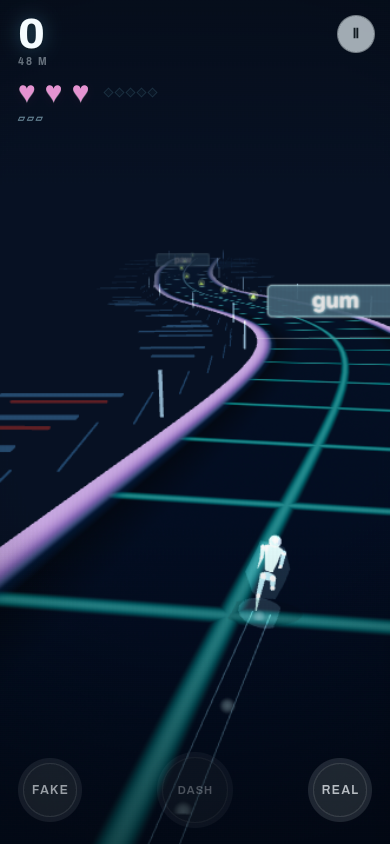
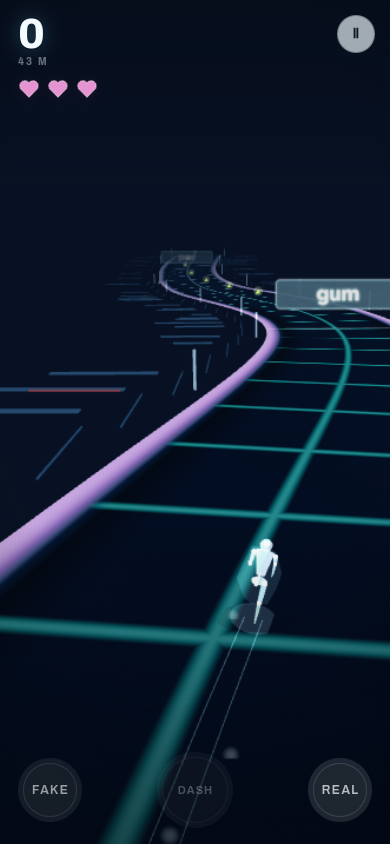
RC6.2: the HUD as one instrument — drawn hearts that carry the streak
The top-left was three things grown up beside each other: the score, a
row of hearts set in whatever heart glyph the platform's symbol font
drew, a second row of five diamonds counting the clean streak, and the
reward-bar marks.

- The hearts are drawn: one path, stroked and filled at a fixed 22px, so
  the piece of HUD that says whether you are alive looks the same on
  every device. The rose is unchanged and still clears every reserved hue
  by at least 25 degrees; the gate proving it now reads the shape's fill
  instead of a glyph's text colour, which is where the colour lives.
- The streak is drawn inside the heart it wins. The five-pip widget is
  deleted, not hidden: the next empty heart fills from its base as the
  clean run climbs, clipped to the heart's outline, reading the same
  repair ladder the sim repairs from. A full row shows nothing extra. The
  screen-reader line moved onto the hearts - the widget went, the
  information did not.
- The bar marks sit with the DASH meter, the other thing the player sets,
  and are invisible until a bar is set. They survive where the charge bar
  is hidden, because they are not the charge.

The four gates protecting the retired widget were retired with it rather
than repointed at a rewritten target; five checks on the hearts hold what
they held. RC stills re-shot.

Gates: full chain green; gate:v1 explicit (26/206/14, 0 fail); 8 live
browser checks.

Claude-Session: https://claude.ai/code/session_01TDfwjntrxgtKLG2HhWQzYQ

diff --git a/index.html b/index.html
@@ -57,13 +57,23 @@
   /* Hearts — the fail state, one pip per life. Built and driven by ui.js
      (Phase 0: relocated here from the deleted rc5.js style injection). The
      danger colour is overridden per colour-vision palette in ui/access.js. */
-  #vitals{display:flex;align-items:center;gap:9px;pointer-events:none;transition:opacity .18s ease}
+  #vitals{display:flex;align-items:center;gap:7px;pointer-events:none;transition:opacity .18s ease}
   /* Phase L HUD pass: hearts leave saturated red — that hue is the
      Redline's alarm, and two reds on one screen taught the wrong lesson.
      Soft rose (hue 315°) clears every RESERVED_HUES entry by ≥ 35° and
      still reads as vitality by shape; the gate holds the separation. */
-  .heartPip{font:600 30px/1 var(--face);color:#ec98d7;text-shadow:0 1px 0 rgba(255,255,255,.35),0 2px 8px rgba(70,20,60,.22);opacity:.97;transition:opacity .18s ease,transform .18s ease}
-  .heartPip.empty{opacity:.14;transform:scale(.82)}
+  /* RC6.2: drawn, not typeset. Stroke + fill at a fixed 22px, so the shape
+     is identical on every platform instead of whatever '♥' each symbol font
+     happens to draw. The rose (hue ~322) clears every RESERVED_HUES entry —
+     the gate holds that separation, as it did for the glyph. */
+  .heartPip{width:22px;height:22px;overflow:visible;opacity:.97;transition:opacity .18s ease,transform .18s ease}
+  .heartPip .hFill{fill:#ec98d7;filter:drop-shadow(0 2px 6px rgba(70,20,60,.35))}
+  .heartPip .hLine{fill:none;stroke:#ffd9f1;stroke-width:1.4;opacity:.5}
+  /* The clean streak, filling the next empty heart from its base. */
+  .heartPip .hStreak{fill:#ec98d7;opacity:.42}
+  .heartPip.empty .hFill{fill:rgba(236,152,215,.13)}
+  .heartPip.empty .hLine{stroke:rgba(255,217,241,.34);opacity:1}
+  .heartPip.empty{transform:scale(.9)}
   #vitals.pulse .heartPip:not(.empty){animation:heartPulse .38s ease}
   @keyframes heartPulse{0%{transform:scale(1)}35%{transform:scale(1.26)}100%{transform:scale(1)}}
   /* RC-5: the run HUD does not carry a second score. BEST lives in
@@ -85,8 +95,12 @@
   #meterLabel i{flex:1;height:1px;background:currentColor;opacity:.3;font-style:normal}
   /* The bar the player set for themselves. Marks, never a word — the naming
      cap is four and this is not one of them. */
-  #barLevel{font-weight:700;letter-spacing:.22em;color:rgba(190,238,255,.55);font-size:9px}
-  #barLevel.set{color:#8be4ff}
+  /* RC6.2: the player's own bar sits with the DASH meter — the two things
+     the player SETS, together — and is invisible until it is actually set.
+     An unset row of marks was three characters of noise beside the hearts
+     explaining nothing. Marks, never a word: the naming cap is four. */
+  #barLevel{font-weight:700;letter-spacing:.22em;color:#8be4ff;font-size:9px;opacity:0;transition:opacity .18s ease}
+  #barLevel.set{opacity:1}
   .meter-zone.armed #meterLabel{color:rgba(190,238,255,.85)}
   .meter-zone.spending #meterLabel{color:#fff}
   /* The one-shot flourish when the dash reaches full charge. */
@@ -313,7 +327,15 @@
      button overlapping the bar. The bar is hidden wherever the ring exists;
      a mouse/keyboard player has no ring, so there it stays exactly as it was.
      The reward-bar readout moves out of the meter's label so it survives. */
-  @media (pointer:coarse){.meter-zone{display:none}}
+  /* RC5: the charge bar is hidden wherever the DASH button's ring is the
+     tell. RC6.2: the bar MARKS are not the charge, so they stay — the row
+     keeps its place above the button and holds nothing but them, which is
+     nothing at all until the player sets a bar. */
+  @media (pointer:coarse){
+    #meterWrap,#meterLabel .mLabel,#meterLabel i{display:none}
+    .meter-zone{gap:0;min-height:14px}
+    #meterLabel{justify-content:center}
+  }
   #barLevel{align-self:flex-end}
   @media(min-width:760px) and (orientation:landscape){#hud{padding-left:28px;padding-right:28px}#meterWrap{max-width:560px;margin:0 auto}.title-lockup{margin-top:8vh}}
 </style>
@@ -326,8 +348,8 @@
   <div id="bandName"></div><div id="coach"></div><div id="powerHint"></div>
 
   <div id="hud">
-    <div><div class="row"><div><div id="dist">0</div><div id="distSub">0 M</div><div id="vitalsSlot"></div></div><div id="best" hidden><span>BEST TODAY</span><b id="bestVal">—</b></div></div><div id="chain"></div><b id="barLevel"></b></div>
-    <div class="meter-zone"><div id="meterLabel">DASH<i></i></div><div id="meterWrap"><div id="meter"></div></div></div>
+    <div><div class="row"><div><div id="dist">0</div><div id="distSub">0 M</div><div id="vitalsSlot"></div></div><div id="best" hidden><span>BEST TODAY</span><b id="bestVal">—</b></div></div><div id="chain"></div></div>
+    <div class="meter-zone"><div id="meterLabel"><span class="mLabel">DASH</span><i></i><b id="barLevel"></b></div><div id="meterWrap"><div id="meter"></div></div></div>
   </div>
 
   <button id="mute" aria-label="Toggle sound">♪</button>

diff --git a/src/ui/ui.js b/src/ui/ui.js
@@ -14,6 +14,9 @@ import { COUNT_BEATS, FALLBACK_BPS, countValue } from './results-motion.js';
 
 const $ = (id) => document.getElementById(id);
 
+/** The heart, drawn once and shared by all three layers of every pip. */
+const HEART_PATH = 'M12 21.2 3.6 12.6a5.6 5.6 0 0 1 0-7.9 5.4 5.4 0 0 1 7.7 0l.7.7.7-.7a5.4 5.4 0 0 1 7.7 0 5.6 5.6 0 0 1 0 7.9Z';
+
 /** One labelled recap row: a short key, then the words it describes. */
 const row = (k, v) => `<div class="recapRow"><span class="k">${k}</span><span class="v">${v}</span></div>`;
 
@@ -77,11 +80,30 @@ export class UI {
     this.vitals = document.createElement('div');
     this.vitals.id = 'vitals';
     this.vitals.setAttribute('aria-label', 'Health');
+    // RC6.2: drawn hearts, not a font glyph. '♥' rendered at whatever weight
+    // and shape each platform's emoji or symbol font happened to have — a
+    // different silhouette on every device, for the piece of HUD that says
+    // whether you are alive. These are one path, stroked and filled by us.
+    //
+    // The fill is also the streak: the NEXT empty heart fills from the
+    // bottom as the clean run climbs toward the reads that win one back
+    // (HEARTS.STREAK_REPAIR_*). "Five in a row wins a heart" is drawn inside
+    // the heart it wins, so the run needs no second widget to say it, and a
+    // full row says nothing extra at all.
     this.heartPips = [];
     for (let i = 0; i < HEARTS.MAX; i++) {
-      const h = document.createElement('span');
-      h.className = 'heartPip';
-      h.textContent = '♥';
+      const h = document.createElementNS('http://www.w3.org/2000/svg', 'svg');
+      h.setAttribute('class', 'heartPip');
+      h.setAttribute('viewBox', '0 0 24 22');
+      h.setAttribute('aria-hidden', 'true');
+      // One clip per heart, so a partial fill is clipped to the heart's own
+      // shape rather than drawn as a rectangle over it.
+      const uid = `heartClip${i}`;
+      h.innerHTML =
+        `<defs><clipPath id="${uid}"><path d="${HEART_PATH}"/></clipPath></defs>` +
+        `<path class="hFill" d="${HEART_PATH}"/>` +
+        `<rect class="hStreak" x="0" y="22" width="24" height="22" clip-path="url(#${uid})"/>` +
+        `<path class="hLine" d="${HEART_PATH}"/>`;
       this.vitals.appendChild(h);
       this.heartPips.push(h);
     }
@@ -227,9 +249,23 @@ export class UI {
     } else this.coach.classList.remove('on');
   }
 
-  /** Paint the heart pips for a life count; `restored` pulses the survivors. */
-  setHearts(n, restored = false) {
-    this.heartPips.forEach((h, i) => h.classList.toggle('empty', i >= n));
+  /**
+   * Paint the heart pips for a life count; `restored` pulses the survivors.
+   * `streakFrac` (0..1) fills the NEXT empty heart — the clean run climbing
+   * toward the one that wins it back. Nothing fills when the row is full.
+   */
+  setHearts(n, restored = false, streakFrac = 0) {
+    this.heartPips.forEach((h, i) => {
+      h.classList.toggle('empty', i >= n);
+      // The next empty heart is the one being earned; the rest stay empty.
+      const filling = i === n ? Math.max(0, Math.min(1, streakFrac)) : 0;
+      const rect = h.querySelector('.hStreak');
+      // The rect grows upward from the heart's base, clipped to its outline.
+      if (rect) {
+        rect.setAttribute('y', (22 - filling * 22).toFixed(2));
+        rect.setAttribute('height', (filling * 22).toFixed(2));
+      }
+    });
     if (restored) {
       this.vitals.classList.remove('pulse');
       void this.vitals.offsetWidth;
@@ -243,8 +279,17 @@ export class UI {
     const live = sim.phase === 'running';
     this.vitals.style.opacity = live ? '1' : '0';
     const n = sim.hearts ?? HEARTS.MAX;
-    this.setHearts(n, live && n > this._lastHearts);
+    // The streak-to-heart ladder shortens as hearts are lost — the same
+    // table the sim repairs from, read here so the two can never disagree.
+    const full = n >= (sim.maxHearts ?? HEARTS.MAX);
+    const need = HEARTS.STREAK_REPAIR_BY_HEARTS[n] ?? HEARTS.STREAK_REPAIR_DEFAULT;
+    const streak = sim.wordGates?.streak || 0;
+    const frac = !live || full || need <= 0 ? 0 : (streak % need) / need;
+    this.setHearts(n, live && n > this._lastHearts, frac);
     this._lastHearts = n;
+    this.vitals.setAttribute('aria-label', full
+      ? `Hearts ${n} of ${sim.maxHearts ?? HEARTS.MAX}, full`
+      : `Hearts ${n}, clean streak ${streak % need} of ${need} to the next`);
   }
 
   update(dt, sim, running, clock = null) {

diff --git a/src/v1-ship-polish.js b/src/v1-ship-polish.js
@@ -199,64 +199,11 @@ function pollControllerUi() {
   controllerUi.navDown = down;
 }
 
-function ensureBellChargeHud() {
-  const sim = globalThis.__SIM;
-  const vitals = globalThis.__UI?.vitals;
-  if (!vitals || !sim) return;
-
-  let root = document.getElementById('v1BellCharge');
-  if (!root) {
-    const style = document.createElement('style');
-    style.id = 'v1-bell-charge-style';
-    style.textContent = `
-      #v1BellCharge{display:flex;align-items:center;gap:4px;margin-left:7px;height:30px;transform:translateY(1px)}
-      .v1-bell-pip{width:7px;height:7px;box-sizing:border-box;border:1px solid rgba(139,228,255,.55);background:rgba(103,216,255,.10);transform:rotate(45deg);transition:background .12s ease,box-shadow .12s ease,transform .12s ease}
-      .v1-bell-pip.on{background:#8be4ff;box-shadow:0 0 7px rgba(139,228,255,.6);transform:rotate(45deg) scale(1.08)}
-      #v1BellCharge.complete{animation:v1BellComplete .36s ease}
-      @keyframes v1BellComplete{0%{filter:brightness(1)}35%{filter:brightness(1.85)}100%{filter:brightness(1)}}
-      #v1BellCharge:focus{outline:none}
-    `;
-    document.head.appendChild(style);
-    root = document.createElement('div');
-    root.id = 'v1BellCharge';
-    root.setAttribute('role', 'img');
-    for (let i = 0; i < 5; i++) {
-      const pip = document.createElement('span');
-      pip.className = 'v1-bell-pip';
-      root.appendChild(pip);
-    }
-    vitals.appendChild(root);
-    root.__lastCharge = -1;
-    root.__lastBells = sim.bellsCollected || 0;
-  }
-
-  // Phase 23: these pips counted bells toward the old automatic heart repair.
-  // Hearts now come back for a CLEAN READING STREAK, so the same widget shows
-  // that instead — the playtest note was that a run gave no indication of the
-  // streak at all, and it is now the thing standing between you and a heart.
-  // The ladder shortens under pressure, so the pip count follows it.
-  const need = HEARTS.STREAK_REPAIR_BY_HEARTS[sim.hearts] ?? HEARTS.STREAK_REPAIR_DEFAULT;
-  const streak = sim.wordGates?.streak || 0;
-  const full = sim.hearts >= (sim.maxHearts ?? HEARTS.MAX);
-  const charge = full ? 0 : clamp(streak % need, 0, need);
-  const bells = streak;
-  [...root.children].forEach((p, i) => {
-    p.classList.toggle('on', !full && i < charge);
-    p.style.display = i < need ? '' : 'none';
-  });
-  root.style.opacity = full ? '0.25' : '1';
-  root.setAttribute('aria-label', full
-    ? 'Hearts full'
-    : `Clean streak ${charge} of ${need} to the next heart`);
-
-  if (root.__lastCharge >= 0 && charge === 0 && bells > root.__lastBells && root.__lastCharge >= need - 1) {
-    root.classList.remove('complete');
-    void root.offsetWidth;
-    root.classList.add('complete');
-  }
-  root.__lastCharge = charge;
-  root.__lastBells = bells;
-}
+// RC6.2: the streak-to-heart widget is GONE. It was a second row of five
+// diamonds beside the hearts, saying "you are n reads from a heart" in a
+// shape that had nothing to do with hearts. The next empty heart now fills
+// as the streak climbs (src/ui/ui.js), so the answer is drawn inside the
+// thing it is about, and a full row shows nothing extra at all.
 
 function destructionSnapshot(sim, player) {
   if (!sim || !player || sim.escaped || (sim.phase !== 'running' && sim.phase !== 'kill')) return null;
@@ -324,7 +271,6 @@ if (!Audio.prototype.__v1ShipPolish) {
   const baseUpdate = Audio.prototype.update;
   Audio.prototype.update = function updateShipPolish(dt, player, ...rest) {
     pollControllerUi();
-    ensureBellChargeHud();
 
     const sim = globalThis.__SIM;
     const before = destructionSnapshot(sim, player);

diff --git a/RELEASE.md b/RELEASE.md
@@ -2027,3 +2027,32 @@ vertical screen in an arcade? No new gameplay systems.
 `dev/shoot-rc-stills.mjs` is committed with this pass: the audit stills are
 re-shot by a script rather than by whatever driver existed that day, and it
 now fails loudly rather than filing a still that shows the wrong screen.
+
+## 1.0-RC6.2 — the cabinet: the HUD as one instrument
+
+The top-left corner was three separate things that had grown up beside each
+other: the score, a row of hearts set in whatever `♥` the platform's symbol
+font happened to draw, a second row of five diamonds counting the clean
+streak, and the reward-bar marks. It is one instrument now.
+
+- **The hearts are drawn.** One path, stroked and filled at a fixed 22px, so
+  the piece of HUD that says whether you are alive has the same silhouette
+  on every device instead of inheriting a different glyph from each one.
+  The rose is unchanged and still clears every reserved hue by ≥ 25° — the
+  gate that proves it now reads the shape's fill rather than a glyph's text
+  colour, which is where the colour actually lives.
+- **The streak is drawn inside the heart it wins.** The separate five-pip
+  widget is deleted, not hidden. The NEXT empty heart fills from its base as
+  the clean run climbs toward the reads that win one back, clipped to the
+  heart's own outline, reading the same repair ladder the sim repairs from.
+  A full row shows nothing extra at all. The screen-reader line the widget
+  carried moved onto the hearts with it — the widget went, the information
+  did not.
+- **The bar marks sit with the DASH meter**, the other thing the player
+  sets, and are invisible until a bar is actually set. Where the charge bar
+  is hidden (touch, where the DASH ring is the tell) the marks stay: they
+  are not the charge.
+
+The four gates that protected the retired widget were retired with it rather
+than repointed at a rewritten target; what they protected is now held by
+five checks on the hearts themselves.
